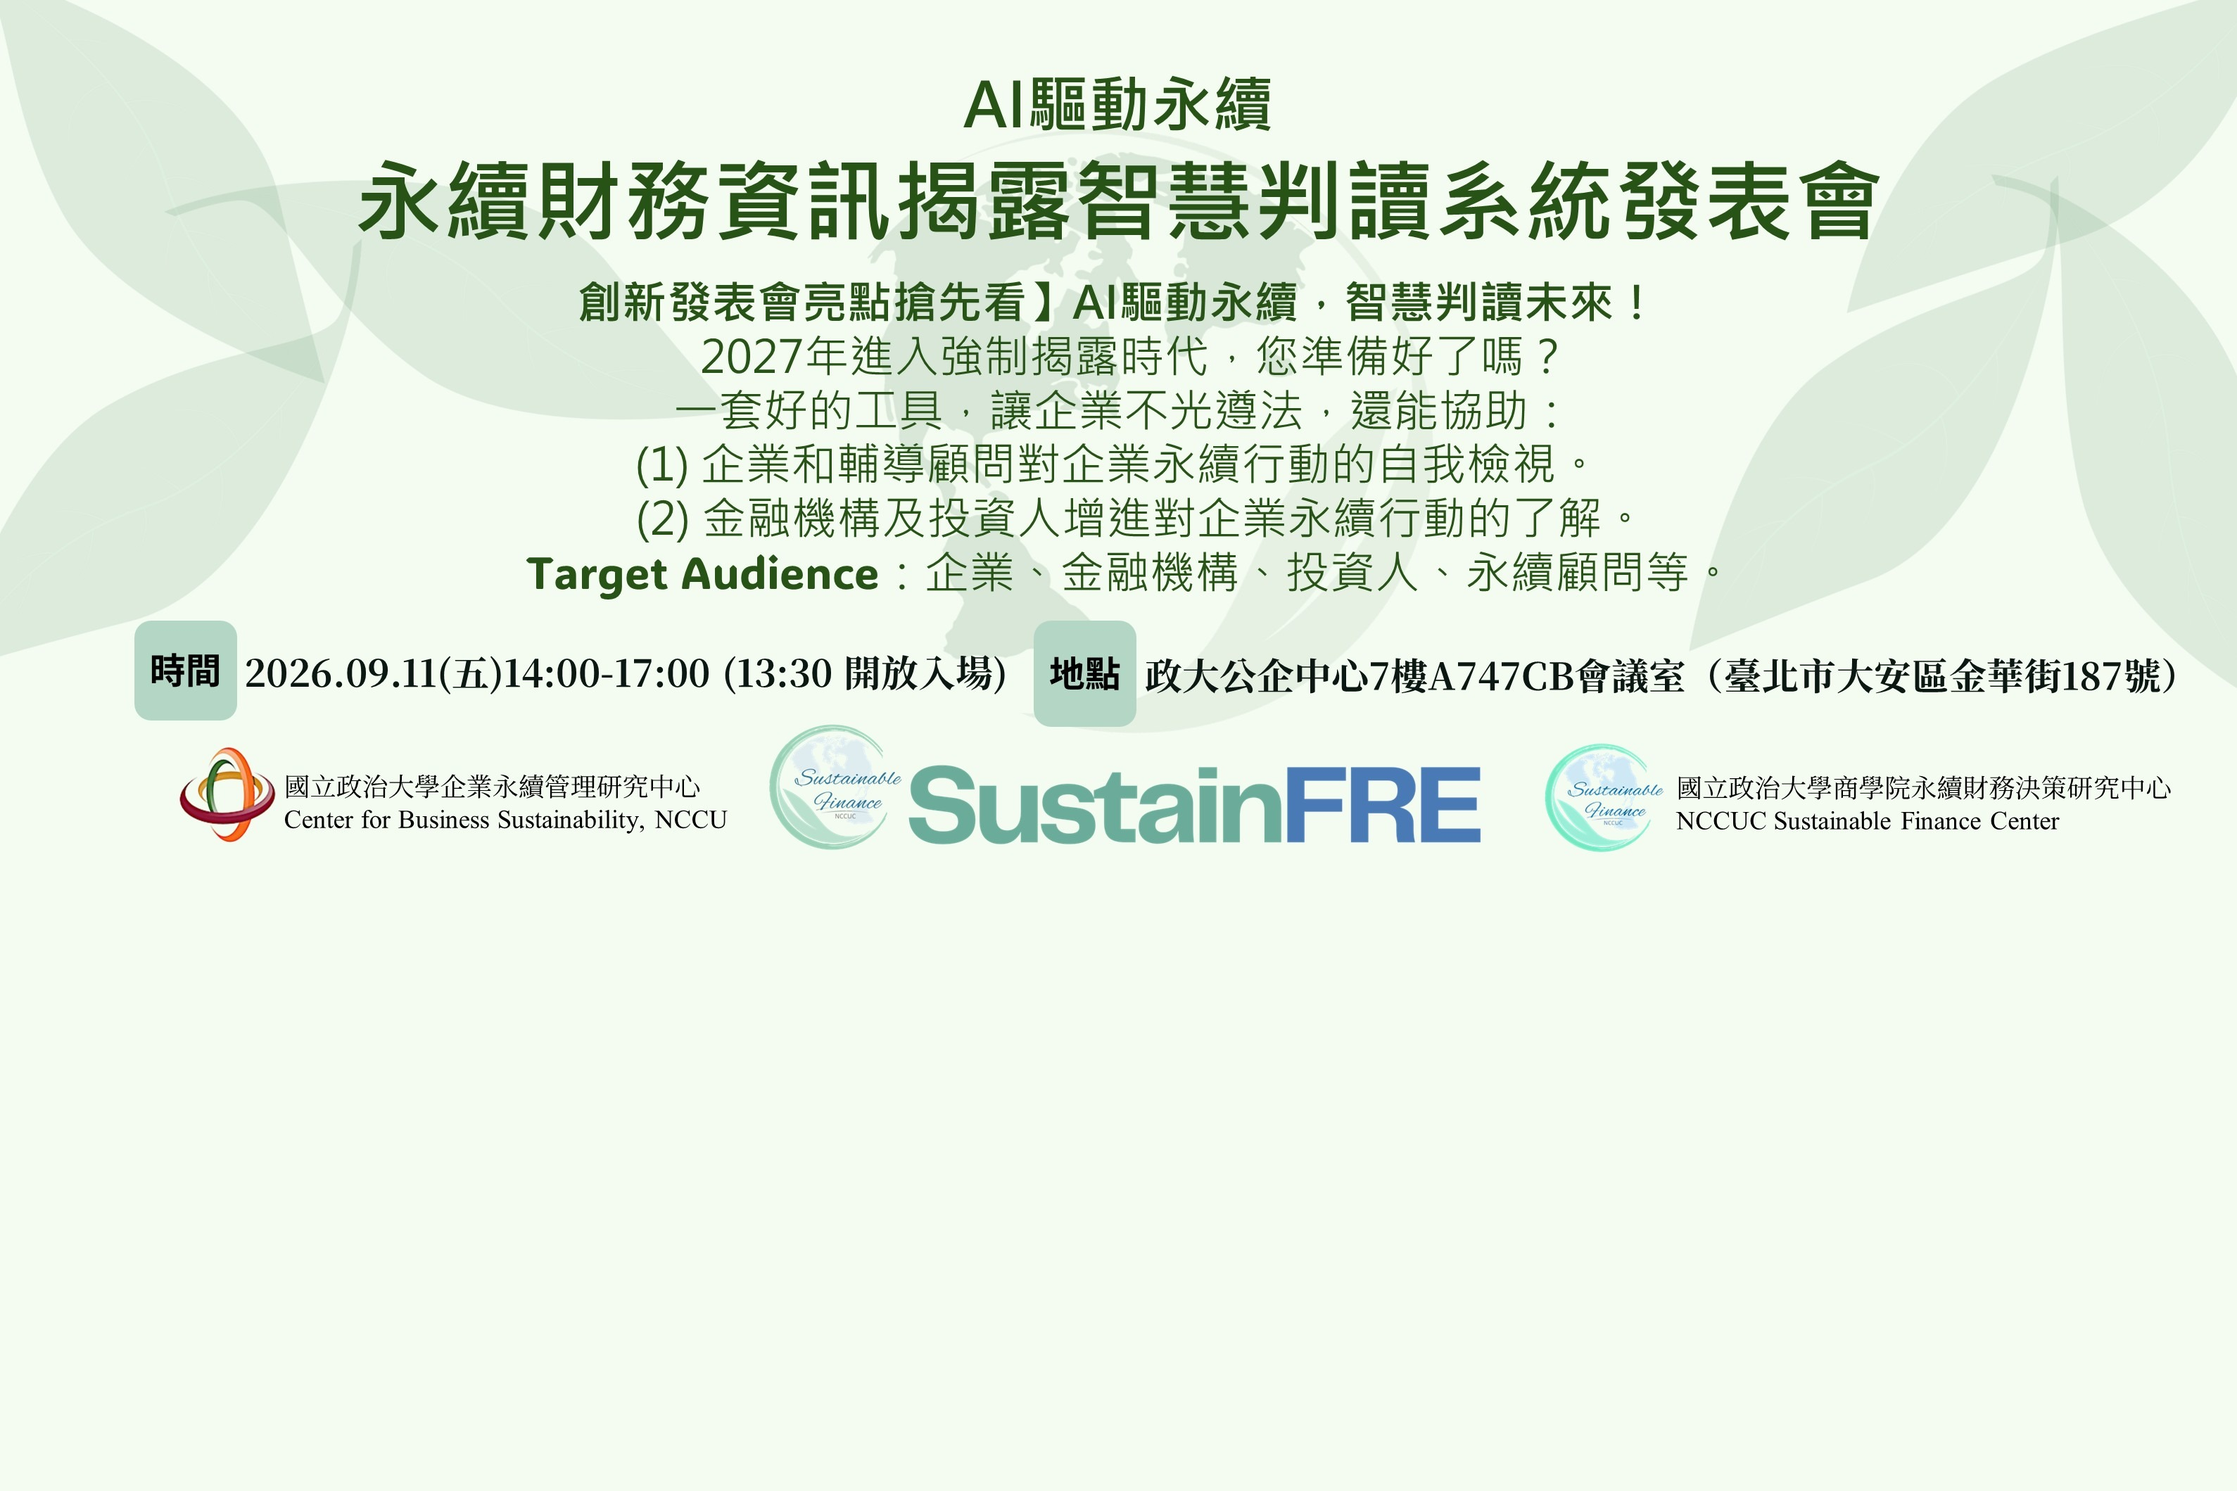
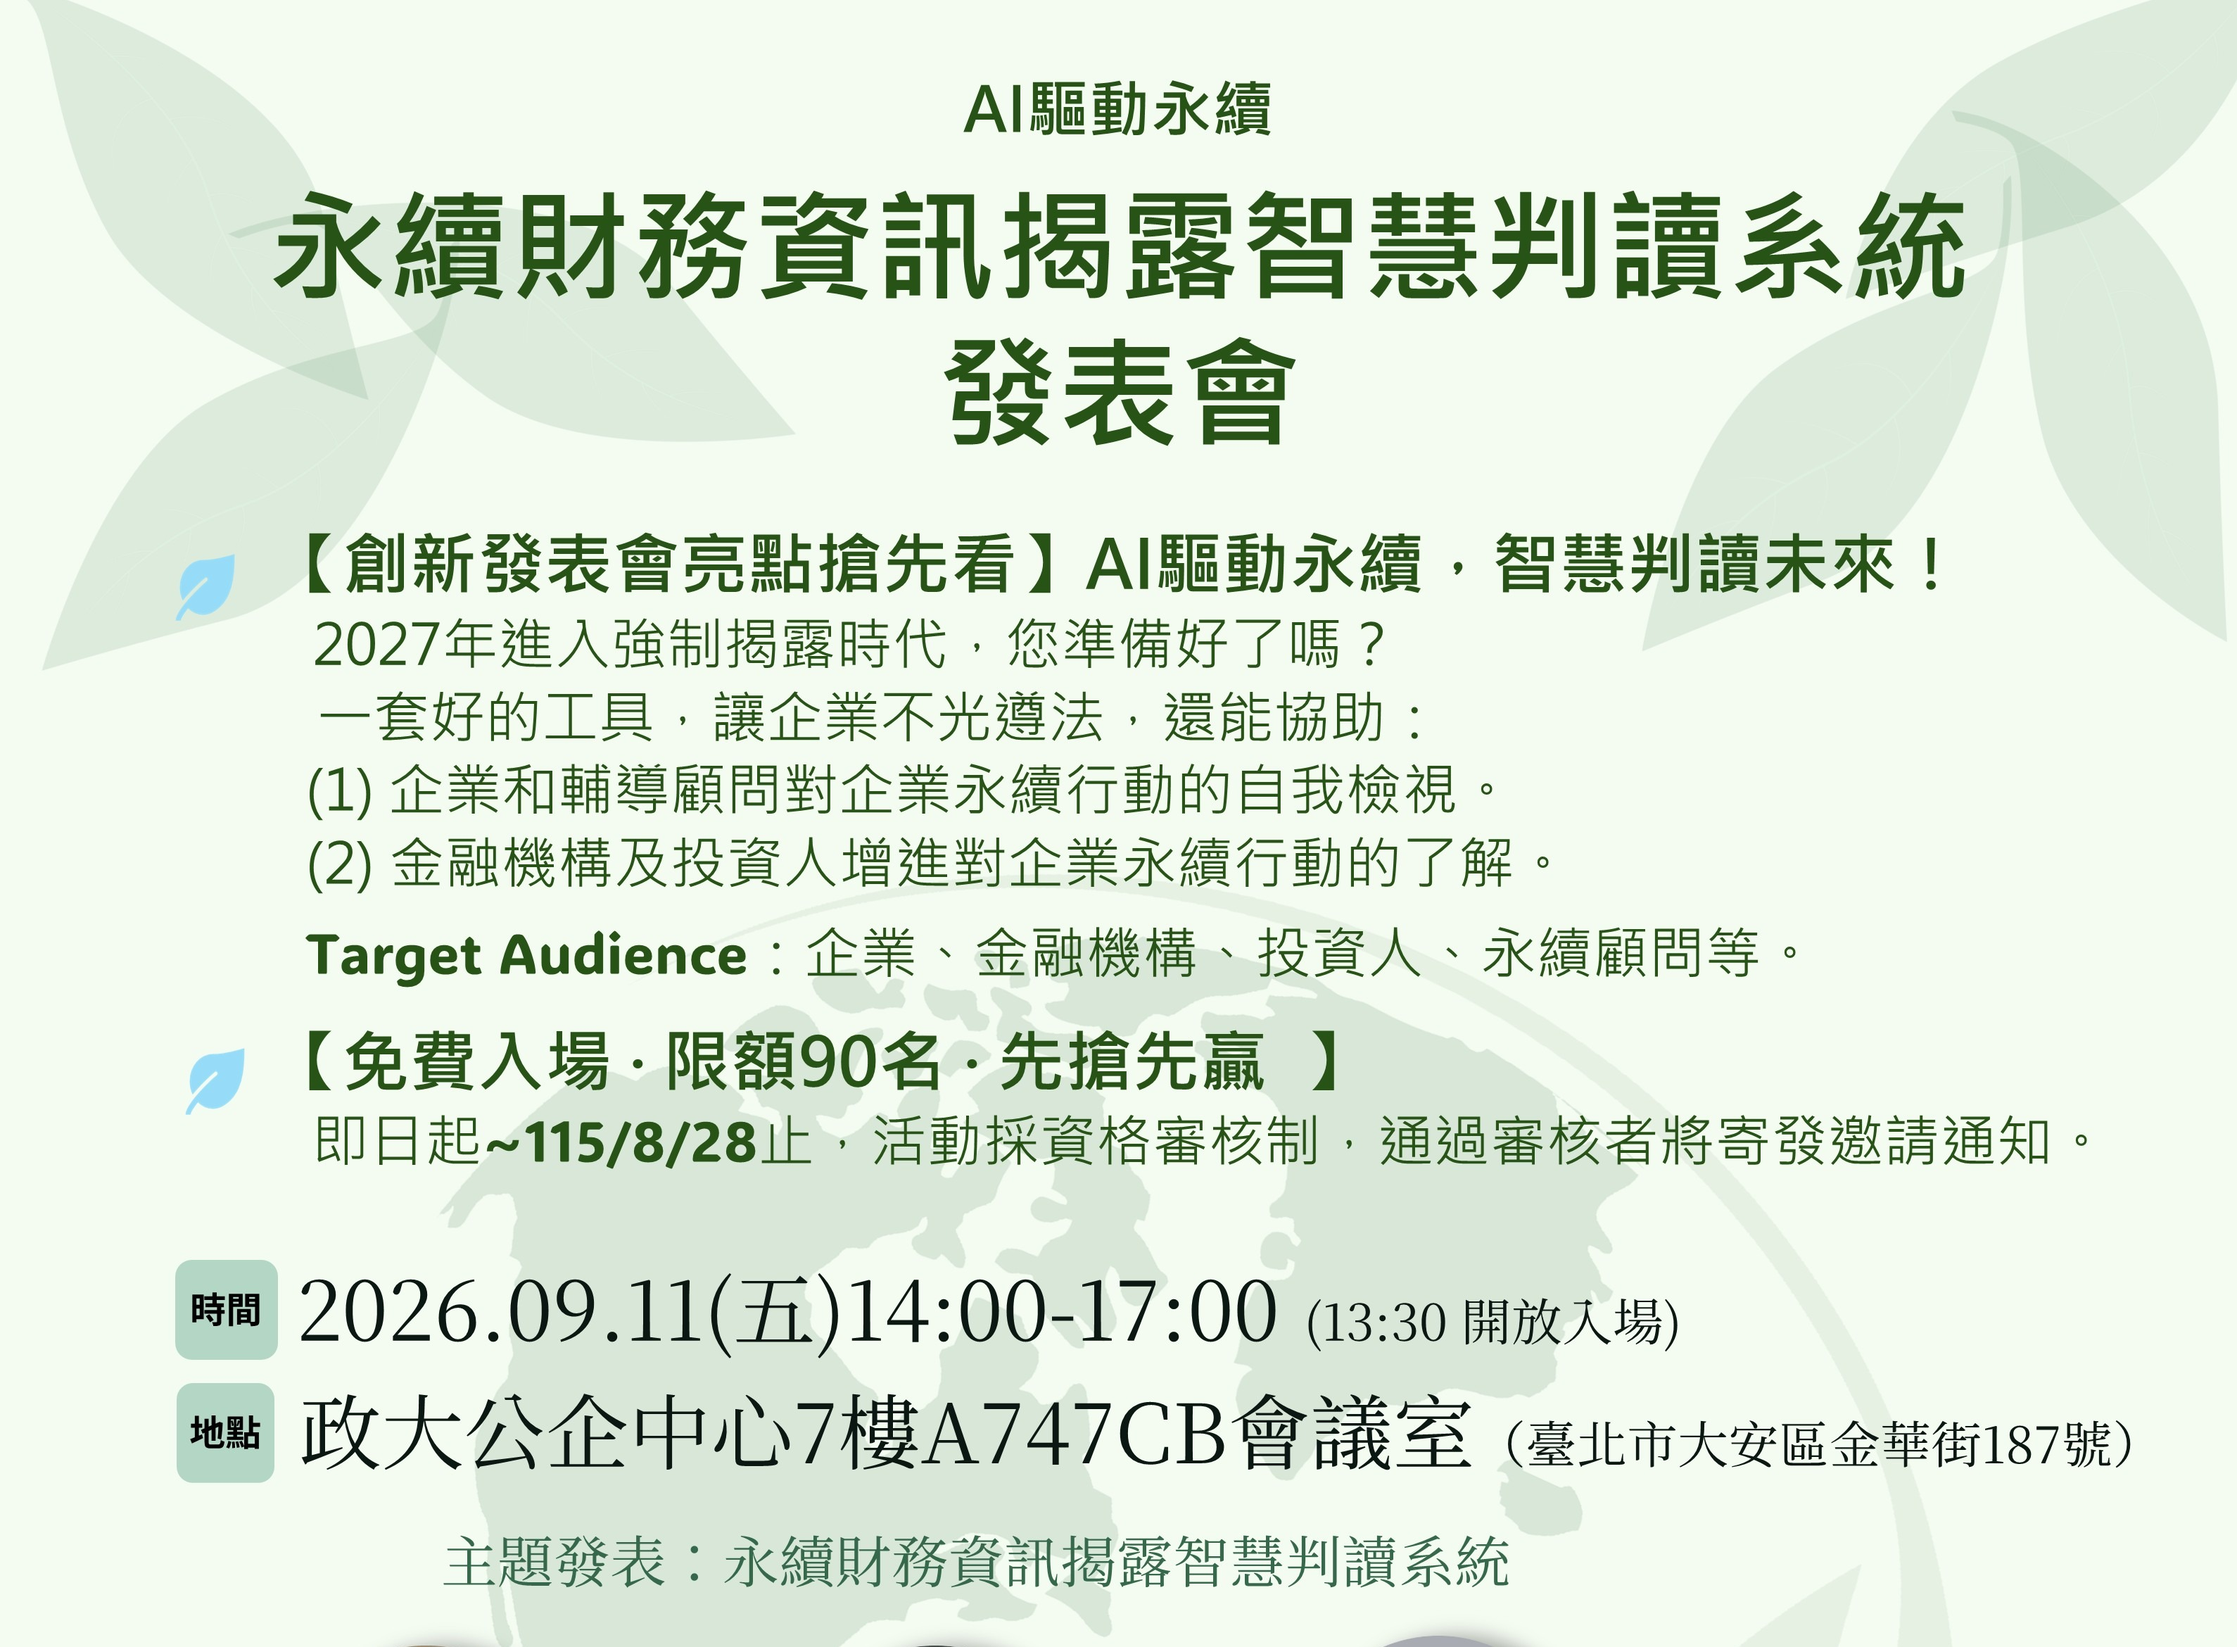
更新輪播圖片比例

Changed region(s): [[0.0623, 0.0311, 0.9654, 1.0], [0.1557, 0.218, 0.1869, 0.2492]]

diff --git a/src/components/Banner.js b/src/components/Banner.js
@@ -34,21 +34,24 @@ export default function Banner({ images }) {
           transition: 'transform 0.3s ease'
         }}
       >
-        {images.map((src, index) => (
-          <div
-            key={index}
-            className="h-full shrink-0 relative"
-            style={{ width: `${100 / images.length}%` }}
-          >
-            <Image
-              src={src}
-              alt={`Banner image ${index + 1}`}
-              fill
-              priority={index === 0}
-              className={`object-cover ${src.includes('tcfd_presentation_poster') ? 'object-top' : 'object-center'}`}
-            />
-          </div>
-        ))}
+        {images.map((src, index) => {
+          const isPoster = src.includes('tcfd_presentation_poster');
+          return (
+            <div
+              key={index}
+              className={`h-full shrink-0 relative ${isPoster ? 'bg-[#eef3ea]' : ''}`}
+              style={{ width: `${100 / images.length}%` }}
+            >
+              <Image
+                src={src}
+                alt={`Banner image ${index + 1}`}
+                fill
+                priority={index === 0}
+                className={isPoster ? 'object-contain' : 'object-cover object-center'}
+              />
+            </div>
+          );
+        })}
       </div>
 
       {/* 箭頭 */}
@@ -84,16 +87,18 @@ export default function Banner({ images }) {
         ))}
       </div>
 
-      {/* 標題（pointer-events-none 讓點擊穿透到下方箭頭/點點） */}
-      <div className="absolute inset-0 flex items-center justify-center bg-black/30 z-10 pointer-events-none">
-        <h1
-          // 手機版 text-2xl，平板 md:text-4xl，電腦版 lg:text-5xl，並加入 text-center 置中與 leading-normal 行距
-          className="text-2xl md:text-4xl lg:text-5xl font-bold text-white text-center leading-normal md:leading-relaxed"
-          style={{ fontFamily: "'KaiTi', '標楷體', serif" }}
-        >
-          國立政治大學商學院永續財務決策研究中心
-        </h1>
-      </div>
+      {/* 標題（pointer-events-none 讓點擊穿透到下方箭頭/點點）— 海報本身已含文字，切到該張時不疊加標題 */}
+      {!images[currentIndex].includes('tcfd_presentation_poster') && (
+        <div className="absolute inset-0 flex items-center justify-center bg-black/30 z-10 pointer-events-none">
+          <h1
+            // 手機版 text-2xl，平板 md:text-4xl，電腦版 lg:text-5xl，並加入 text-center 置中與 leading-normal 行距
+            className="text-2xl md:text-4xl lg:text-5xl font-bold text-white text-center leading-normal md:leading-relaxed"
+            style={{ fontFamily: "'KaiTi', '標楷體', serif" }}
+          >
+            國立政治大學商學院永續財務決策研究中心
+          </h1>
+        </div>
+      )}
     </div>
   );
 }

diff --git a/src/components/Header.js b/src/components/Header.js
@@ -57,7 +57,7 @@ export default function Header() {
 
   return (
     <header className="sticky top-0 z-50 bg-white border-b-2 border-gray-200 relative">
-      <div className="w-full px-4 lg:px-16 py-4 lg:py-6 flex justify-between items-center bg-white relative z-20">
+      <div className="w-full max-w-6xl mx-auto px-4 lg:px-8 py-4 lg:py-6 flex justify-between items-center bg-white relative z-20">
         {/* 左側：Logo 和文字 */}
         <div className="flex items-center lg:gap-6">
           <div className="flex items-center justify-center shrink-0">
